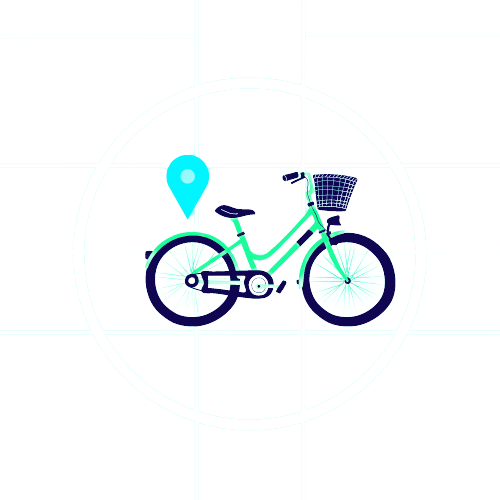
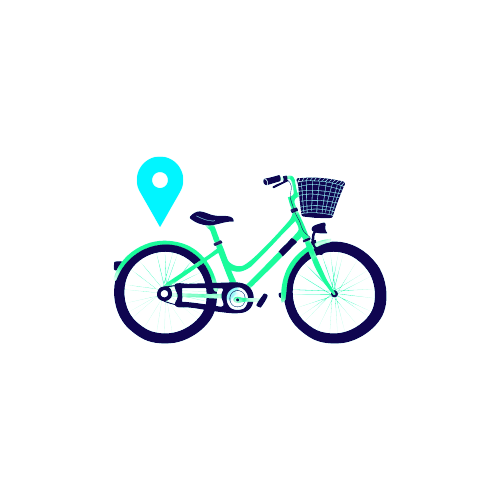
bick image included

Changed region(s): [[0.21, 0.3, 0.81, 0.69]]

diff --git a/lib/pages/splash_screen.dart b/lib/pages/splash_screen.dart
@@ -60,7 +60,14 @@ class _SplashScreenState extends State<SplashScreen> {
                           Container(
                             height: Dimension.height70,
                             child: Center(
-                              child: Text("Bick $screenIndex"),
+                              child: Container(
+                                decoration: const BoxDecoration(
+                                  image: DecorationImage(
+                                    image: AssetImage('assets/bick.png'),
+                                    fit: BoxFit.contain,
+                                  ),
+                                ),
+                              ),
                             ),
                           ),
                           SmallText(
@@ -111,7 +118,7 @@ class _SplashScreenState extends State<SplashScreen> {
                 TextButton(
                   onPressed: () {
                     setState(() {
-                      if (screenIndex <= 1 ) {
+                      if (screenIndex <= 1) {
                         screenIndex++;
                       }
                     });
